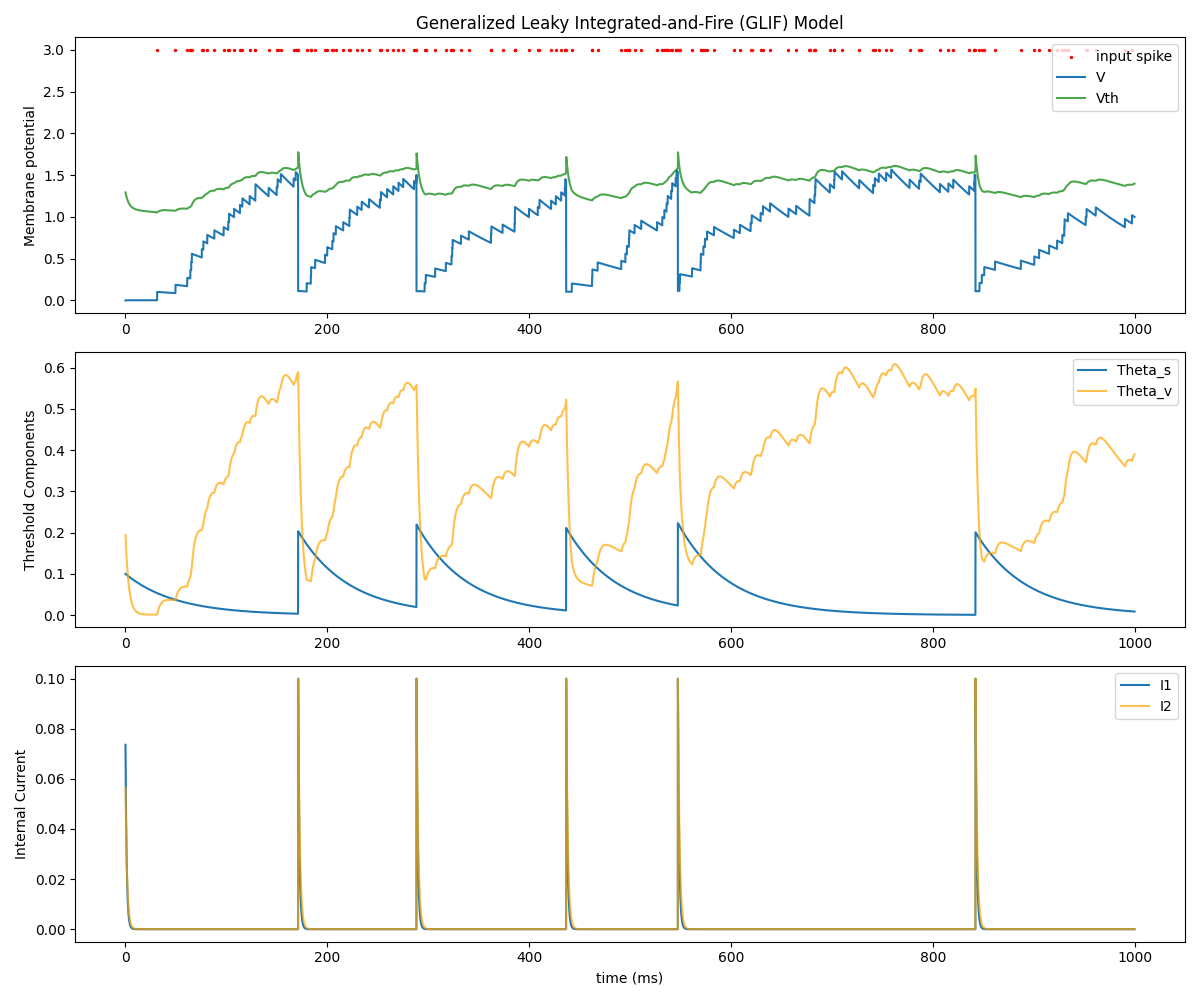
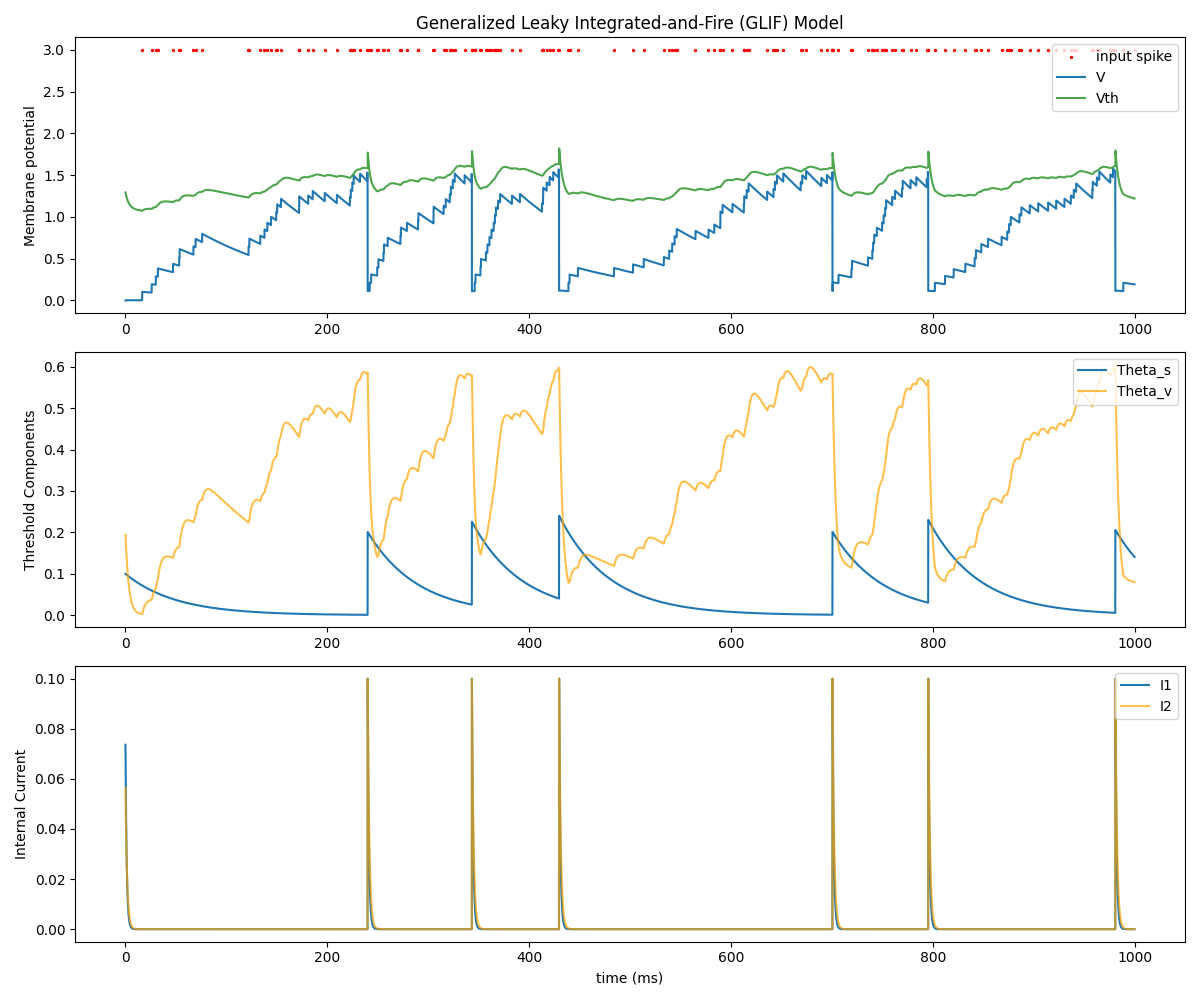
task1.1完结

diff --git a/spaic_homework/task1_lif_server.py b/spaic_homework/task1_lif_server.py
@@ -1,10 +1,14 @@
 import spaic
 import torch
-import numpy as np
+import numpy as np # 补充导入 numpy
 import matplotlib
-# 【服务器必加】
+# 【修改1】服务器必加，设置无头模式
 matplotlib.use('Agg') 
 import matplotlib.pyplot as plt
+
+# 【修改2】自动检测 A100 (cuda)，保持高性能
+device = 'cuda' if torch.cuda.is_available() else 'cpu'
+print(f"Running on: {device}")
 
 run_time = 1000.0
 backend_dt = 0.1
@@ -13,116 +17,74 @@ class TestNet(spaic.Network):
     def __init__(self):
         super(TestNet, self).__init__()
         self.in_node = spaic.Encoder(num=1, coding_method='null')
-        
-        # 【修改1】模型设为 GLIF
-        # GLIF 的特性是发放脉冲后，阈值 v_th 会跳变升高，然后指数衰减回基准值
-        self.layer1 = spaic.NeuronGroup(num=1, model='glif')
-        
-        # 【修改2】权重设为 200.0
-        # 原因：GLIF 阈值会升高(变得难兴奋)，需要更大的电流来维持发放，展示适应性
-        self.connection1 = spaic.Connection(pre=self.in_node, post=self.layer1,
-                                            link_type='full', 
-                                            weight=torch.tensor([[200.0]]))
-        
-        # Monitor - 基础监控
+        self.layer1 = spaic.NeuronGroup(num=1, model='lif')
+        self.connection1 = spaic.Connection(pre=self.in_node, post=self.layer1,link_type='full', weight=torch.tensor([[1]]))
+        # Monitor
         self.mon_V = spaic.StateMonitor(self.layer1, 'V')
         self.mon_in = spaic.StateMonitor(self.in_node, 'O')
         self.mon_L1 = spaic.StateMonitor(self.layer1, 'O')
         
-        # 【核心逻辑】自动寻找并监控“动态阈值”变量
-        # 不同版本 SPAIC 中，GLIF 的阈值变量名可能是 'v_th', 'theta', 'threshold' 等
-        self.th_name = None
-        self.mon_th = None
-        
-        available_vars = []
-        if hasattr(self.layer1, '_variables'):
-            available_vars = list(self.layer1._variables.keys())
-        
-        # 常见阈值变量名候选
-        candidates = ['v_th', 'theta', 'V_th', 'threshold', 'thresh']
-        for cand in candidates:
-            if cand in available_vars:
-                self.th_name = cand
-                print(f"DEBUG: 成功锁定 GLIF 动态阈值变量名为: '{cand}'")
-                self.mon_th = spaic.StateMonitor(self.layer1, cand)
-                break
-        
-        # 后端设置 (CPU)
-        self.set_backend(spaic.Torch_Backend('cpu'))
+        # 【修改3】使用检测到的 device (cuda)
+        self.set_backend(spaic.Torch_Backend(device))
         self.set_backend_dt(dt=backend_dt)
-
-# 实例化网络
+    
+# 实例化网络并输入数据
 Net = TestNet()
 
-# 输入数据构建 (保持严格一致)
 my_input_data = torch.ones([int(run_time/backend_dt)]) * 0.0125
 my_input_data[int(100/backend_dt):int(200/backend_dt)] = 0.006
 my_input_data[int(200/backend_dt):int(500/backend_dt)] = 0.0
 my_input_data[:int(100/backend_dt)] = 0.0
 
-Net.in_node(my_input_data.view(1, 10000, 1))
-print("开始仿真 GLIF 模型...")
+# 【修改4】将输入数据移动到 GPU
+Net.in_node(my_input_data.view(1, 10000, 1).to(device))
 Net.run(run_time)
 
-# === 数据提取 ===
-def safe_numpy(data):
+# 【修改5】安全地将 GPU Tensor 转为 Numpy 用于绘图
+def to_numpy(data):
     if isinstance(data, torch.Tensor):
         return data.detach().cpu().numpy()
     return np.array(data)
 
-time_line = safe_numpy(Net.mon_V.times)
-value_line = safe_numpy(Net.mon_V.values[0][0])
-input_line = safe_numpy(Net.mon_in.values[0][0])
-output_time = safe_numpy(Net.mon_L1.times)
-output_line = safe_numpy(Net.mon_L1.values[0][0])
+time_line = to_numpy(Net.mon_V.times)
+value_line = to_numpy(Net.mon_V.values[0][0])
+input_line = to_numpy(Net.mon_in.values[0][0])
+output_time = to_numpy(Net.mon_L1.times)
+output_line = to_numpy(Net.mon_L1.values[0][0])
 
-# 提取动态阈值数据
-th_line = None
-if Net.mon_th is not None:
-    th_line = safe_numpy(Net.mon_th.values[0][0])
-
+# 保留你原本的逻辑：根据电压阈值寻找脉冲点
 spike_times = time_line[value_line > 0.997]
 spike_values = value_line[value_line > 0.997]
 
-print(f"仿真结束，检测到脉冲数: {len(spike_times)}")
+# === 绘图部分 ===
+plt.figure(figsize=(10, 8)) # 稍微调大画布以便保存更清晰
 
-# === 绘图 ===
-plt.figure(figsize=(10, 8))
-
-# 1. 输入电流
 plt.subplot(3, 1, 1)
-plt.title('Generalized Leaky Integrate-and-Fire (GLIF) Model')
-plt.plot(time_line, input_line, label='input current', color='tab:blue')
+plt.title('Leaky Integrated-and-Fire Model')
+plt.plot(time_line, input_line, label='input current')
 plt.ylabel("Current")
-plt.legend(loc='upper right')
+plt.legend()
 
-# 2. 膜电位 + 动态阈值 (这是 GLIF 的精髓)
 plt.subplot(3, 1, 2)
-plt.plot(time_line, value_line, label='V (Membrane)', color='tab:orange')
-
-# 如果找到了动态阈值，画出来
-if th_line is not None:
-    plt.plot(time_line, th_line, label=f'Dynamic Threshold ({Net.th_name})', 
-             color='green', linestyle='--', linewidth=1.5)
-else:
-    # 没找到就画个固定的
-    plt.axhline(1.0, color='gray', linestyle='--', label='Fixed Threshold')
-
-plt.ylabel("Potential")
+plt.plot(time_line, value_line, label='V')
+plt.ylabel("Membrane potential")
 if len(spike_times) > 0:
-    plt.scatter(spike_times, spike_values, color='red', marker='o', s=15, zorder=5)
-plt.ylim((-0.1, 2.0)) # GLIF 阈值可能会升高超过 1.0，所以把 Y 轴范围拉大一点
-plt.legend(loc='upper right')
+    plt.scatter(spike_times, spike_values, 
+                color='orange',    
+                marker='o',     # 圆点
+                s=10,           # 点的大小
+                label='output Spikes', # 图例
+                zorder=5)       # 确保点画在线的图层上面，不被遮挡
+plt.ylim((-0.1, 1.5))
+plt.legend()
 
-# 3. 脉冲序列
 plt.subplot(3, 1, 3)
-plt.plot(output_time, output_line, label='output spike', color='tab:green')
-plt.xlabel("time (ms)")
-plt.ylabel("Spikes")
-plt.legend(loc='upper right')
+plt.plot(output_time, output_line, label='output spike')
+plt.xlabel("time")
+plt.legend()
 
-# 保存
-save_path = 'glif_result.png'
+# 【修改6】改为保存图片
+save_path = 'lif_result.png'
 plt.tight_layout()
 plt.savefig(save_path)
 print(f"✅ 图片已保存为: {save_path}")

diff --git a/spaic_homework/task1_aeif_server.py b/spaic_homework/task1_aeif_server.py
@@ -6,6 +6,10 @@ import matplotlib
 matplotlib.use('Agg') 
 import matplotlib.pyplot as plt
 
+# 1. 自动检测 A100 (cuda)
+device = 'cuda' if torch.cuda.is_available() else 'cpu'
+print(f"Running aEIF on: {device}")
+
 run_time = 1000.0
 backend_dt = 0.1
 
@@ -15,7 +19,7 @@ class TestNet_aEIF(spaic.Network):
         # 依据课件第67页，输入部分使用 null 编码直接注入电流
         self.input = spaic.Encoder(num=1, coding_method='null')
         
-        # 【依据课件】模型设为 aeif (Adaptive Exponential Integrate-and-Fire)
+        # 【依据课件】模型设为 aeif
         self.layer1 = spaic.NeuronGroup(1, model='aeif')
         
         # 【依据课件】权重设为 900
@@ -23,7 +27,7 @@ class TestNet_aEIF(spaic.Network):
             self.input, 
             self.layer1, 
             link_type='full', 
-            weight=torch.tensor([[900.0]]) # 课件源码使用 np.array([[900]]), 这里转为 tensor
+            weight=torch.tensor([[900.0]]) 
         )
         
         # Monitor
@@ -31,21 +35,20 @@ class TestNet_aEIF(spaic.Network):
         self.mon_in = spaic.StateMonitor(self.input, 'O')
         self.mon_O = spaic.StateMonitor(self.layer1, 'O')
         
-        # 后端设置
-        self.set_backend(spaic.Torch_Backend('cpu'))
+        # 后端设置为 device
+        self.set_backend(spaic.Torch_Backend(device))
         self.set_backend_dt(dt=backend_dt)
 
 # 实例化网络
 Net = TestNet_aEIF()
 
 # 【依据课件第67页】输入数据构建
-# 逻辑：0-200ms: 0.5; 200-500ms: 0.0; 500-1000ms: 0.7
 my_input_data = np.ones([int(run_time/backend_dt)]) * 0.7
 my_input_data[:int(200/backend_dt)] = 0.5
 my_input_data[int(200/backend_dt):int(500/backend_dt)] = 0.0
 
-# 转换为Tensor并调整维度 [Batch, Time, Neuron]
-input_tensor = torch.tensor(my_input_data, dtype=torch.float32).view(1, -1, 1)
+# 转换为Tensor并移动到 GPU
+input_tensor = torch.tensor(my_input_data, dtype=torch.float32).view(1, -1, 1).to(device)
 
 print("开始仿真 aEIF 模型...")
 Net.input(input_tensor)
@@ -73,11 +76,26 @@ plt.plot(time_line, input_line, label='input current')
 plt.ylabel("Current")
 plt.legend(loc='upper right')
 
-# 2. 膜电位
+# 2. 膜电位 + 橙色脉冲点
 plt.subplot(3, 1, 2)
 plt.plot(time_line, value_line, label='V', color='tab:orange')
 plt.ylabel("Membrane potential")
-# aEIF 的膜电位范围可能较大，根据课件图示调整
+
+# ==========================================
+# 【核心修改：橙色点画在 -50】
+# ==========================================
+spike_indices = output_line > 0
+spike_times = output_time[spike_indices]
+
+if len(spike_times) > 0:
+    # 这里的 [-50] 就是你要的坐标位置
+    plt.scatter(spike_times, [-50]*len(spike_times), 
+                color='orange', 
+                s=25,               
+                label='output spike', 
+                zorder=10)          
+
+# Y轴范围设置：包含 -80 到 -20，这样 -50 就在中间位置，清晰可见
 plt.ylim((-80, -20)) 
 plt.legend(loc='upper right')
 
@@ -89,7 +107,7 @@ plt.ylabel("Spikes")
 plt.legend(loc='upper right')
 
 # 保存
-save_path = 'aeif_result.png'
+save_path = 'aeif_result_final.png'
 plt.tight_layout()
 plt.savefig(save_path)
 print(f"✅ aEIF 结果已保存为: {save_path}")
